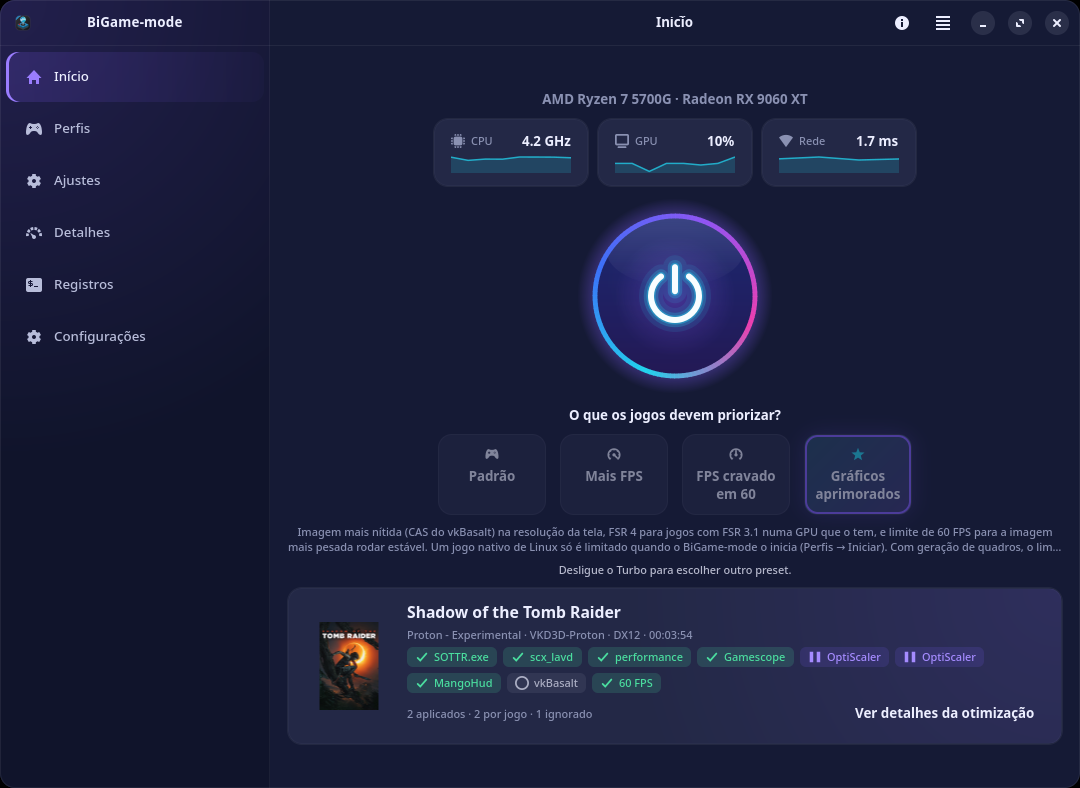
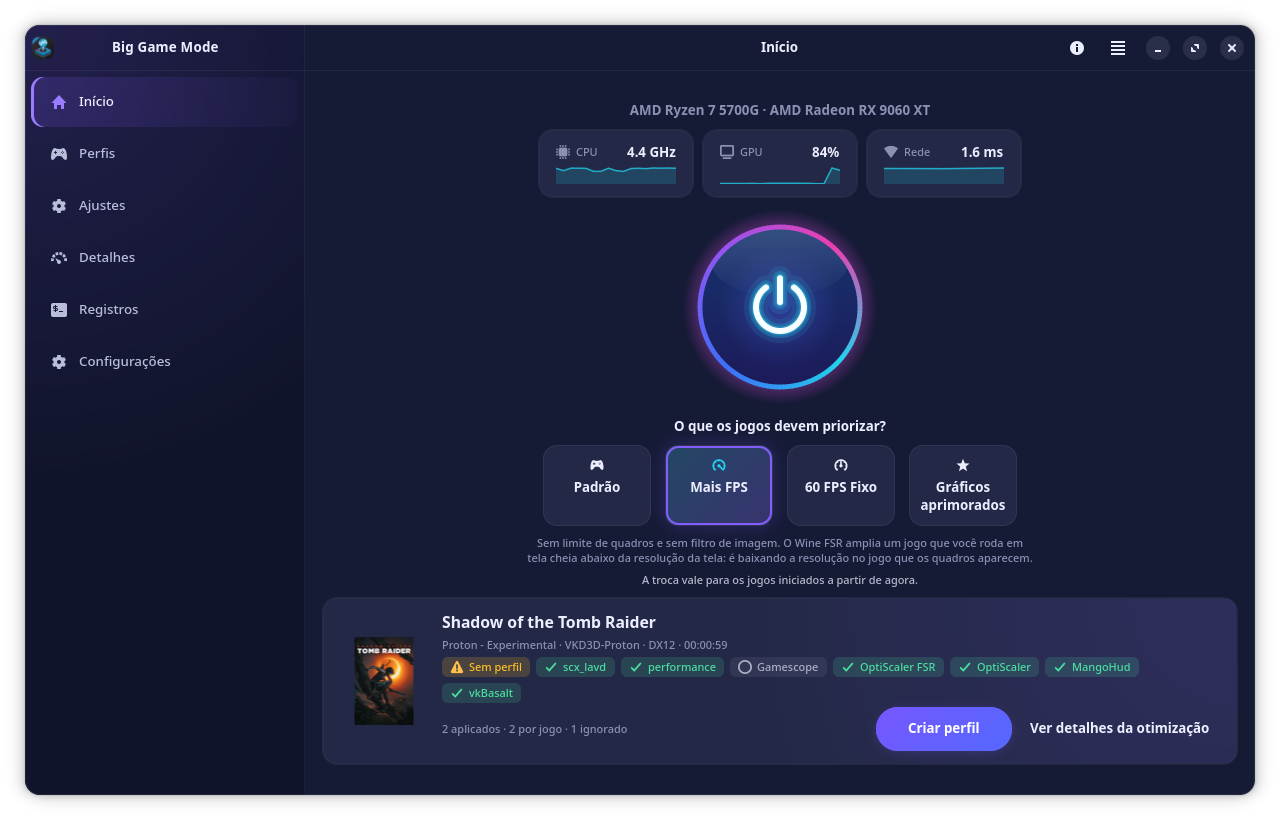
docs: new screenshots, the whole feature set and credits in the README
- Every screenshot is retaken from the current build: the name, the new
  Home and tray, and a Shadow of the Tomb Raider session running. Two are
  new: AI Graphics and the welcome screen.
- The README describes what was missing: a game card's Optimize/Edit
  button and every item of its menu, the tray as a remote, the notice to
  reopen a launcher, the welcome screen and the help on each page, and
  the command-line options.
- A Credits section lists the author and everyone the About dialog
  thanks, as it does.

Changed region(s): [[0.0, 0.0, 1.0, 1.0], [0.4278, 0.5482, 0.4889, 0.6091]]

diff --git a/README.md b/README.md
@@ -19,7 +19,8 @@ que mostra, com evidência, o que está mesmo em vigor.
 [Instalação](#-instalação) ·
 [Benchmarks](#-benchmarks) ·
 [Segurança](#%EF%B8%8F-segurança) ·
-[Desenvolvimento](#%EF%B8%8F-desenvolvimento)
+[Desenvolvimento](#%EF%B8%8F-desenvolvimento) ·
+[Créditos](#-créditos)
 
 <br>
 
@@ -135,6 +136,28 @@ supera a variação.
 
 </td>
 </tr>
+<tr>
+<td valign="top">
+
+### 🧭 Bandeja e lançadores
+
+Fechar a janela deixa o Big Game Mode na **bandeja**, que funciona como um
+controle remoto: abre a janela, liga e desliga o Turbo e troca o preset. Um
+lançador (Steam, Heroic, Lutris) aberto antes de uma mudança do Turbo recebe
+um aviso para **Reabrir**, na janela ou numa notificação, e nunca é fechado
+com um jogo rodando.
+
+</td>
+<td valign="top">
+
+### 💡 Ajuda em cada página
+
+Uma tela de boas-vindas apresenta os recursos, o botão ⓘ no topo explica
+passo a passo a página aberta, e o **Sobre** traz as informações de
+depuração completas para anexar a um relato de problema.
+
+</td>
+</tr>
 </table>
 
 <details>
@@ -143,14 +166,13 @@ supera a variação.
 | Página | O que faz |
 |---|---|
 | **Início** | O **Turbo** e o seu preset, três leituras ao vivo (CPU, GPU, rede) e um card que resume o que o Turbo fez ou, com um jogo aberto, mostra o jogo (capa e nome vindos da biblioteca, de qualquer lançador) com uma flag colorida por recurso (perfil, escalonador, energia, Gamescope, upscaling, geração de quadros, MangoHud, vkBasalt, limite de FPS) e o relatório completo. Um lançador que já estava aberto antes do preset (Steam, Heroic, Lutris) e não o recebeu aparece com **Reabrir**, recusado enquanto um jogo dele roda. |
-| **Perfis** | A biblioteca de jogos com capas (Steam, Lutris, Heroic, Flatpak e menu), busca e filtros. Cada perfil tem as mesmas seções e linhas dos Ajustes, só para aquele jogo; cada opção começa em "Configuração geral", que segue os Ajustes (o Perfil global). Os valores próprios do jogo (tamanhos e filtro do Gamescope, limite de FPS, Wine FSR, vkBasalt) chegam a ele onde podem chegar: pelo **Iniciar (Turbo)**, nas opções de inicialização da Steam ou nas configurações do jogo no Heroic, gravadas com o lançador fechado e sem tocar no que é seu. No menu ⋮ de cada jogo: **Iniciar (Turbo)** (direto ou pelo próprio lançador), **Criar com Assistente**, **Gráficos com IA**, **Medir a diferença** e **Restaurar os gráficos do jogo**. |
+| **Perfis** | A biblioteca de jogos com capas (Steam, Lutris, Heroic, Flatpak e menu), busca e filtros. Cada perfil tem as mesmas seções e linhas dos Ajustes, só para aquele jogo; cada opção começa em "Configuração geral", que segue os Ajustes (o Perfil global). Os valores próprios do jogo (tamanhos e filtro do Gamescope, limite de FPS, Wine FSR, vkBasalt) chegam a ele onde podem chegar: pelo **Iniciar (Turbo)**, nas opções de inicialização da Steam ou nas configurações do jogo no Heroic, gravadas com o lançador fechado e sem tocar no que é seu. Cada capa tem **Otimizar**, que cria o perfil do jogo (ou **Editar**, quando ele já existe), e o menu ⋮: **Iniciar (Turbo)** (direto ou pelo próprio lançador), **Criar com Assistente**, **Criar perfil**, **Gráficos com IA**, **Medir a diferença**, **Restaurar os gráficos do jogo** e **Excluir perfil**; só aparece o que vale para aquele jogo. |
 | **Ajustes** | A configuração geral, usada por todos os jogos: desempenho, exibição, qualidade de imagem, geração de quadros, monitoramento (com os estilos do MangoHud inspirados no Steam Deck) e avançado. Ligar uma tecnologia que colide com outra já ligada pergunta qual manter. Mudar os tamanhos do Gamescope atualiza as opções de inicialização da Steam dos jogos que o usam. |
 | **Detalhes** | Visão geral (pronto para jogar, Turbo, falcond, perfil, energia, escalonador, GPU, Gamescope, upscaling, geração de quadros), telemetria em tempo real, um cartão por placa de vídeo (carga, clock, VRAM, temperatura, energia e qual renderiza o jogo), o desempenho e o pipeline de vídeo. Traz ainda os **Problemas**, a rede (com a comparação de servidores DNS, que pode tornar o escolhido o DNS da conexão pelo NetworkManager, guardando antes as configurações anteriores para **Restaurar**), a carga em segundo plano, as opções de lançamento da Steam quebradas e o relatório para suporte. |
 | **Registros** | O que importa numa sessão de jogo: falcond, Big Game Mode e o helper, power-profiles-daemon, scx_loader, Gamescope, os drivers de GPU, as falhas (coredumps), as instalações pelo pkexec e, da saída dos jogos da Steam, o que vem do Proton/Wine, MangoHud, vkBasalt, lsfg-vk e OptiScaler, com filtro por fonte. |
 | **Configurações** | A aparência (tema **Padrão** ou **Gamer**, claro, escuro ou o do sistema; uma instalação nova abre em Gamer escuro), o início em segundo plano, a oferta de perfis, as notificações, o alvo do ping (um dos servidores da comparação de DNS ou outro endereço) e o controle do falcond: **Devolver** o entrega exatamente como estava antes, e **Retomar o controle** volta a geri-lo, registrando de novo o estado em que ele está. |
 
-Fechar a janela deixa o aplicativo na **bandeja**, que funciona como um
-controle remoto: abre a janela, liga e desliga o Turbo, troca o preset e
+A **bandeja** abre a janela, liga e desliga o Turbo, troca o preset e
 encerra o aplicativo. O ícone é simbólico e segue as cores do painel.
 
 </details>
@@ -159,26 +181,34 @@ encerra o aplicativo. O ícone é simbólico e segue as cores do painel.
 
 <table>
 <tr>
-<td colspan="2"><img src="docs/screenshots/home-game.png" alt="Início com Shadow of the Tomb Raider em execução no Gamescope"></td>
+<td colspan="2"><img src="docs/screenshots/home-game.png" alt="Início com Shadow of the Tomb Raider em execução"></td>
 </tr>
 <tr>
-<td colspan="2" align="center"><b>Início</b> com um jogo aberto: cada recurso numa flag colorida, com o que está ativo e o que não está</td>
+<td colspan="2" align="center"><b>Início</b> com um jogo aberto: o que ele recebeu de verdade, uma flag por recurso</td>
 </tr>
 <tr>
 <td width="50%"><img src="docs/screenshots/profiles.png" alt="Perfis: biblioteca de jogos com capas"></td>
-<td width="50%"><img src="docs/screenshots/details.png" alt="Detalhes: visão geral, telemetria e GPUs"></td>
+<td width="50%"><img src="docs/screenshots/ai-graphics.png" alt="Gráficos com IA de Shadow of the Tomb Raider"></td>
 </tr>
 <tr>
-<td align="center"><b>Perfis</b>: a biblioteca de jogos instalados, cada um com seu perfil</td>
+<td align="center"><b>Perfis</b>: os jogos instalados de todos os lançadores</td>
+<td align="center"><b>Gráficos com IA</b>: o que o jogo tem, o que foi instalado e como desfazer</td>
+</tr>
+<tr>
+<td><img src="docs/screenshots/details.png" alt="Detalhes: visão geral, telemetria e placas de vídeo"></td>
+<td><img src="docs/screenshots/tuning.png" alt="Ajustes: desempenho, escalonador e exibição"></td>
+</tr>
+<tr>
 <td align="center"><b>Detalhes</b>: o que está em vigor, com a evidência</td>
-</tr>
-<tr>
-<td><img src="docs/screenshots/tuning.png" alt="Ajustes: desempenho do sistema, Gamescope e upscaling"></td>
-<td><img src="docs/screenshots/settings.png" alt="Configurações: tema, Turbo, perfis e notificações"></td>
-</tr>
-<tr>
 <td align="center"><b>Ajustes</b>: o que a máquina não suporta aparece como tal</td>
+</tr>
+<tr>
+<td><img src="docs/screenshots/settings.png" alt="Configurações: aparência, Turbo, perfis e notificações"></td>
+<td><img src="docs/screenshots/welcome.png" alt="Tela de boas-vindas"></td>
+</tr>
+<tr>
 <td align="center"><b>Configurações</b>: temas Padrão e Gamer, claro ou escuro</td>
+<td align="center"><b>Boas-vindas</b>: os recursos numa tela só</td>
 </tr>
 <tr>
 <td><img src="docs/screenshots/details-gamer-light.png" alt="Detalhes no tema Gamer claro"></td>
@@ -323,6 +353,15 @@ O pacote instala o `bigame-ui` (o aplicativo, que roda como usuário comum) e o
 `bigame-daemon` (o auxiliar root), com sua unit do systemd, os arquivos de
 D-Bus e a política do Polkit. Instala também o `.desktop`, o metainfo, os
 ícones e as traduções.
+
+### Linha de comando
+
+| Comando | O que faz |
+|---|---|
+| `bigame-ui` | abre o aplicativo (ou traz para frente a janela já aberta) |
+| `bigame-ui --background` | inicia só na bandeja; é o que o login usa quando *Iniciar em segundo plano ao entrar* está ligado |
+| `bigame-ui --diagnostics` | imprime o relatório de suporte no terminal e sai, sem mudar nada no sistema |
+| `bigame-ui --diagnostics --network` | o mesmo, com a medição de rede e DNS (leva alguns segundos) |
 
 ## 💻 Compatibilidade
 
@@ -471,12 +510,22 @@ máximo do hardware, trazendo os últimos recursos tecnológicos para alcançar 
 FPS máximo. Com a integração do `lsfg-vk` (Lossless Scaling) e o `falcond`,
 criamos uma solução completa de GameMode para o ecossistema BigLinux.
 
-**Agradecimentos:** Bruno Gonçalves, Barnabé di Kartola, Alessandro e Pacheco
-(System Infotech) e a comunidade BigLinux.
-
 </td>
 </tr>
 </table>
+
+## 🏆 Créditos
+
+| | |
+|---|---|
+| **Autor e desenvolvedor** | **Rafael Ruscher** · <rruscher@gmail.com> |
+| **Agradecimentos especiais** | **Bruno Gonçalves** (BigLinux) · <bigbruno@gmail.com><br>**Barnabé di Kartola** · <barnabedikartola@gmail.com><br>**Alexasandro Pacheco Feliciano** (Pacheco, System Infotech) · @pachecogameroficial<br>**Alessandro e Silva Xavier** (Alessandro, System Infotech) · @alessandro741<br>**Narayan Silva** (Nara Linux) · <narayancloud@gmail.com> |
+| **Visual Nara Linux do vkBasalt** | configuração do Narayan, apresentada no canal [Nara Linux](https://www.youtube.com/watch?v=GGBC-qMB_0Y) |
+| **Comunidade** | a comunidade BigLinux, que testa, relata problemas e traduz |
+
+Os mesmos créditos estão em **Sobre** (menu ☰ → Sobre), junto com os
+projetos em que o Big Game Mode se apoia. Encontrou um problema ou quer
+ajudar? Abra uma [issue](https://github.com/biglinux/bigamemode/issues).
 
 ## 🙏 Projetos utilizados
 
